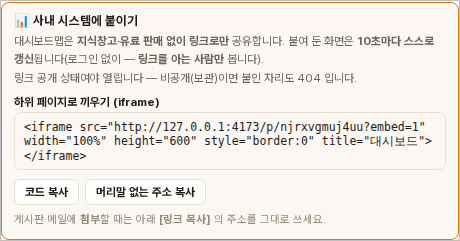
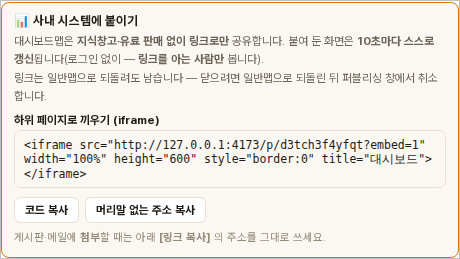
대시보드 퍼블리싱 창 단순화(보관·취소 단추 뺌) · 공개 화면 갱신 표시는 바닥글 줄 가운데 (e2e329) (#612)
* 대시보드 퍼블리싱 창 단순화(보관·취소 단추 뺌) · 공개 화면 갱신 표시는 바닥글 줄 가운데

- PublishPanel(대시보드맵): 처음은 [🔗 링크 만들기] 한 번 = 링크 공개. 등록 뒤
  비공개(보관)/링크 공개 전환과 [퍼블리싱 취소]를 그리지 않는다. 예전에 보관해 둔
  맵만 [🔗 링크 다시 열기]. 붙이기 칸 안내 문구도 갱신(닫으려면 일반맵으로 되돌린 뒤).
- PublicMapPage: 위쪽 34px 막대를 걷고, 같은 알약(🟢 📊 지금 시각 · ⟳ · 간격)을 뷰어
  바닥글 줄 가운데에 얹는다 — 새 탭·붙인 화면 모두, 맵 영역이 줄지 않는다.
- 22-dashboard v3.6 · 가이드 13 §7.

Claude-Session: https://claude.ai/code/session_01AoGXgGWrXHbWMncuBzWjkj

* docs: 가이드 13 그림 3장(붙이기 칸 · 포털 iframe · 새 탭) · 카탈로그 e2e329 (289차)

Claude-Session: https://claude.ai/code/session_01AoGXgGWrXHbWMncuBzWjkj

---------

Changed region(s): [[0.0304, 0.0581, 0.9739, 0.9585], [0.0, 0.9585, 1.0, 1.0], [0.0, 0.0, 1.0, 0.029]]

diff --git a/apps/frontend/src/pages/PublicMapPage.tsx b/apps/frontend/src/pages/PublicMapPage.tsx
@@ -75,8 +75,6 @@ function loadDashInterval(): number {
   } catch { return 10; }
 }
 const intervalLabel = (s: number) => (s === 0 ? '끔' : s < 60 ? `${s}초` : `${s / 60}분`);
-/** 위쪽 대시보드 막대 높이 — iframe 이 이만큼 내려간다 */
-const DASH_H = 34;
 
 /** `?embed=1` — 사내 페이지 안 iframe 으로 붙일 때. 돌아갈 막대를 그리지 않는다 */
 function isEmbed(): boolean {
@@ -206,12 +204,6 @@ export function PublicMapPage({ publishId }: { publishId: string }) {
     };
   }, [isDashboard, publishId, intervalSec]);
 
-  // 위쪽 대시보드 막대만큼 iframe 을 내린다 (ViewerBar 의 `--viewer-bar` 와 같은 방법)
-  useEffect(() => {
-    if (!isDashboard) return undefined;
-    document.documentElement.style.setProperty('--viewer-dash', `${DASH_H}px`);
-    return () => { document.documentElement.style.removeProperty('--viewer-dash'); };
-  }, [isDashboard]);
 
   // 뷰어 HTML 은 문서가 바뀔 때만 다시 만든다 — 큰 맵에서는 무거운 작업이다
   const html = useMemo(() => {
@@ -295,8 +287,8 @@ export function PublicMapPage({ publishId }: { publishId: string }) {
           position: 'fixed', left: 0, right: 0, bottom: 0,
           // 막대가 있을 때만 그만큼 내린다 — 없으면 예전 그대로 화면 전체다
           // 막대 + (유료면) 잠김 띠만큼 내려간다
-          top: 'calc(var(--viewer-bar, 0px) + var(--viewer-paid, 0px) + var(--viewer-dash, 0px))', width: '100%',
-          height: 'calc(100% - var(--viewer-bar, 0px) - var(--viewer-paid, 0px) - var(--viewer-dash, 0px))',
+          top: 'calc(var(--viewer-bar, 0px) + var(--viewer-paid, 0px))', width: '100%',
+          height: 'calc(100% - var(--viewer-bar, 0px) - var(--viewer-paid, 0px))',
           border: 'none',
         }}
       />
@@ -305,12 +297,17 @@ export function PublicMapPage({ publishId }: { publishId: string }) {
 }
 
 /**
- * 대시보드맵 공개 화면의 **위쪽 막대** (2026-10-01 사용자 요청: "링크로 열었을 때 시간이랑
- * 연결 상태가 좌측 하단에 표시되는데, 대시보드맵을 열었을 때와 똑같이 상단에 — 리프레시 시간
- * 간격 설정도 같이"). 에디터 도구줄의 대시보드 알약과 같은 순서·같은 기호다:
- * `🟢 HH:MM:SS  ⟳  [10초▾]` — 🟢 정상 · ⏳ 확인 중 · ⚠ 서버에 닿지 못함/확인이 멈춤.
- * 색은 뷰어 머리말(`#FFFDF8` / `#E4D9C3`)과 같아 바로 아래 머리말과 한 덩어리로 읽힌다.
- * 간격은 에디터와 같은 칸(`emm.dash.interval`)에 이 브라우저만 기억한다.
+ * 대시보드맵 공개 화면의 **갱신 표시** — 뷰어 **바닥글 줄 가운데**에 얹는다.
+ *
+ * (2026-10-01 사용자 요청) 처음엔 왼쪽 아래 배지였고, "대시보드맵을 열었을 때와 똑같이 상단에 —
+ * 간격 설정도 같이" 로 위쪽 막대가 됐다. (2026-10-02 사용자 요청) 새 탭에서 열면 위에 돌아가기
+ * 막대 · 대시보드 막대 · 뷰어 머리말 세 줄이 쌓여 "**하단의 줄에 중앙에**" 로 옮겼다 — 뷰어
+ * 바닥글(26px, `EasyMindMap 내보내기 · 읽기 전용 뷰어 …`)은 왼쪽만 쓰므로 가운데가 빈다.
+ * 줄을 새로 만들지 않아 맵 영역이 줄지 않는다.
+ *
+ * 내용은 에디터 도구줄의 대시보드 알약과 같은 순서·같은 기호다: `🟢 HH:MM:SS  ⟳  [10초▾]` —
+ * 🟢 정상 · ⏳ 확인 중 · ⚠ 서버에 닿지 못함/확인이 멈춤. 간격은 에디터와 같은 칸
+ * (`emm.dash.interval`)에 이 브라우저만 기억한다. 색은 바닥글과 같은 `#FFFDF8` / `#E4D9C3`.
  */
 function DashboardBar({
   now, refreshedAt, changedAt, stale, checking, intervalSec, onInterval, onRefresh,
@@ -322,50 +319,41 @@ function DashboardBar({
   const stalled = intervalSec > 0 && now.getTime() - refreshedAt.getTime() > intervalSec * 2000 + 5000;
   const warn = stale || stalled;
   const small: CSSProperties = {
-    height: 22, padding: '0 7px', borderRadius: 5, fontSize: 11, fontWeight: 700,
+    height: 18, padding: '0 6px', borderRadius: 4, fontSize: 10.5, fontWeight: 700,
     border: '1px solid #D8CBB2', background: '#fff', color: '#4A3F30',
-    cursor: 'pointer', fontFamily: 'inherit',
+    cursor: 'pointer', fontFamily: 'inherit', lineHeight: '16px',
   };
   return (
     <div
-      data-testid="public-dashboard-bar"
+      data-testid="public-dashboard-live"
+      title={(warn
+        ? '서버에 확인하지 못하고 있습니다 — 마지막으로 받은 값을 보여 주고 있습니다\n'
+        : intervalSec > 0
+          ? `대시보드맵 — ${intervalLabel(intervalSec)}마다 시계 눈금에 맞춰 바뀐 것을 확인해 스스로 갱신합니다\n`
+          : '자동 갱신이 꺼져 있습니다 — ⟳ 를 누를 때만 확인합니다\n')
+        + `보이는 시각 = 지금 시각 · 마지막 확인 ${hhmmss(refreshedAt)} · 마지막 변경 ${changedAt ? hhmmss(changedAt) : '—'}`}
       style={{
-        position: 'fixed', left: 0, right: 0, zIndex: 9,
-        top: 'calc(var(--viewer-bar, 0px) + var(--viewer-paid, 0px))', height: DASH_H,
-        boxSizing: 'border-box', display: 'flex', alignItems: 'center', gap: 8, padding: '0 12px',
-        background: '#FFFDF8', borderBottom: '1px solid #E4D9C3', color: '#6B5E4A',
-        fontFamily: 'system-ui, -apple-system, "Segoe UI", sans-serif', fontSize: 11.5,
+        // 뷰어 바닥글(높이 26px) 한가운데 — 바닥글 위에 얹는다
+        position: 'fixed', left: '50%', bottom: 2, transform: 'translateX(-50%)', zIndex: 11,
+        display: 'inline-flex', alignItems: 'center', gap: 5, height: 22, padding: '0 7px',
+        boxSizing: 'border-box', borderRadius: 6, whiteSpace: 'nowrap',
+        background: '#FFFDF8', border: '1px solid #E4D9C3', color: '#4A3F30',
+        fontFamily: 'system-ui, -apple-system, "Segoe UI", sans-serif', fontSize: 11, fontWeight: 600,
       }}
     >
-      <span style={{ fontWeight: 700 }}>📊 대시보드</span>
-      <span style={{ flex: 1 }} />
-      <span
-        data-testid="public-dashboard-live"
-        title={(warn
-          ? '서버에 확인하지 못하고 있습니다 — 마지막으로 받은 값을 보여 주고 있습니다\n'
-          : intervalSec > 0
-            ? `대시보드맵 — ${intervalLabel(intervalSec)}마다 시계 눈금에 맞춰 바뀐 것을 확인해 스스로 갱신합니다\n`
-            : '자동 갱신이 꺼져 있습니다 — ⟳ 를 누를 때만 확인합니다\n')
-          + `보이는 시각 = 지금 시각 · 마지막 확인 ${hhmmss(refreshedAt)} · 마지막 변경 ${changedAt ? hhmmss(changedAt) : '—'}`}
-        style={{
-          display: 'inline-flex', alignItems: 'center', gap: 6, height: 26, padding: '0 8px',
-          borderRadius: 7, fontWeight: 600, whiteSpace: 'nowrap',
-          background: '#F7F1E6', border: '1px solid #E4D9C3', color: '#4A3F30',
-        }}
+      <span data-testid="public-dashboard-health" aria-hidden>{warn ? '⚠' : checking ? '⏳' : '🟢'}</span>
+      <span aria-hidden>📊</span>
+      <span data-testid="public-dashboard-clock" style={{ fontVariantNumeric: 'tabular-nums' }}>{hhmmss(now)}</span>
+      <button data-testid="public-dashboard-refresh" style={small} title="지금 다시 받기" onClick={onRefresh}>⟳</button>
+      <select
+        data-testid="public-dashboard-interval"
+        value={intervalSec}
+        onChange={(e) => onInterval(Number(e.target.value))}
+        title="자동 갱신 간격 (이 브라우저에만 기억)"
+        style={{ ...small, padding: '0 1px' }}
       >
-        <span data-testid="public-dashboard-health" aria-hidden>{warn ? '⚠' : checking ? '⏳' : '🟢'}</span>
-        <span data-testid="public-dashboard-clock" style={{ fontVariantNumeric: 'tabular-nums' }}>{hhmmss(now)}</span>
-        <button data-testid="public-dashboard-refresh" style={small} title="지금 다시 받기" onClick={onRefresh}>⟳</button>
-        <select
-          data-testid="public-dashboard-interval"
-          value={intervalSec}
-          onChange={(e) => onInterval(Number(e.target.value))}
-          title="자동 갱신 간격 (이 브라우저에만 기억)"
-          style={{ ...small, padding: '0 2px' }}
-        >
-          {DASH_INTERVALS.map((v) => <option key={v} value={v}>{intervalLabel(v)}</option>)}
-        </select>
-      </span>
+        {DASH_INTERVALS.map((v) => <option key={v} value={v}>{intervalLabel(v)}</option>)}
+      </select>
     </div>
   );
 }

diff --git a/apps/frontend/src/components/cloud/PublishPanel.tsx b/apps/frontend/src/components/cloud/PublishPanel.tsx
@@ -426,7 +426,24 @@ export function PublishPanel(
           </div>
         )}
 
-        {status?.available && status.publishable !== false && !status.publishId && (
+        {/* ★ **대시보드맵은 한 단계로 링크를 만든다** (2026-10-02 사용자 요청: 비공개/링크 공개 단추가
+            필요 없다) — 보관 상태를 거치지 않고 바로 링크 공개. 지식창고·판매는 서버가 막는다 */}
+        {status?.available && status.publishable !== false && !status.publishId && status.dashboard && (
+          <>
+            <div style={{ fontSize: 12.5, color: t.textMuted, lineHeight: 1.8, marginBottom: 16 }}>
+              대시보드맵을 <b>사내 시스템에 붙일 링크</b>를 만듭니다 — 링크를 아는 사람만 봅니다
+              (지식창고에는 올라가지 않습니다). 붙여 둔 화면은 스스로 갱신됩니다.
+            </div>
+            <button
+              data-testid="publish-create"
+              disabled={busy}
+              onClick={() => void doPublish('public')}
+              style={{ ...btn, width: '100%', background: t.primary, color: '#fff' }}
+            >{busy ? '만드는 중…' : '🔗 링크 만들기'}</button>
+          </>
+        )}
+
+        {status?.available && status.publishable !== false && !status.publishId && !status.dashboard && (
           <>
             <div style={{ fontSize: 12.5, color: t.textMuted, lineHeight: 1.8, marginBottom: 16 }}>
               퍼블리싱하면 이 맵이 문서함의 <b>퍼블리싱 자리</b>로 옮겨집니다 —
@@ -463,7 +480,29 @@ export function PublishPanel(
                 등록(주소를 만든다)과 노출(남에게 보인다)을 나눈 자리다.
                 칸이 없는 서버(델타 미적용)에서는 아예 그리지 않는다 —
                 눌러 보고 나서야 실패를 만나지 않게. */}
-            {status.canSetVisibility && (
+            {/* ★ 대시보드맵은 상태 전환 단추를 두지 않는다 (2026-10-02 사용자 요청) — 링크 공개가
+                대시보드의 쓰임새 전부다. 예전에 보관으로 돌려 둔 맵만 [링크 다시 열기] 하나를 보인다
+                (그것마저 없으면 붙여 둔 자리를 되살릴 길이 없다) */}
+            {status.dashboard && (status.visibility ?? 'public') === 'private' && (
+              <div data-testid="publish-dashboard-reopen" style={{ marginBottom: 10 }}>
+                <button
+                  data-testid="publish-vis-public"
+                  disabled={busy}
+                  onClick={() => void doSetVisibility('public')}
+                  style={{ ...btn, width: '100%', height: 32, fontSize: 12.5, background: t.primary, color: '#fff' }}
+                >🔗 링크 다시 열기</button>
+                <div style={{ fontSize: 11.5, color: t.textSubtle, lineHeight: 1.6, marginTop: 6 }}>
+                  지금은 보관 중이라 남에게 보이지 않습니다(주소를 열면 404). 다시 열면 <b>같은 주소</b>가 살아납니다.
+                </div>
+              </div>
+            )}
+            {status.dashboard && (status.visibility ?? 'public') !== 'private' && (
+              <div style={{ fontSize: 11.5, color: t.textSubtle, lineHeight: 1.6, marginBottom: 10 }}>
+                🔗 링크 공개 중 — 링크를 가진 누구나 읽습니다. 값은 프로그램이 넣은 대로 스스로 바뀝니다.
+                <br />★ <b>목록에는 뜨지 않습니다</b> — 주소를 아는 사람만 봅니다.
+              </div>
+            )}
+            {status.canSetVisibility && !status.dashboard && (
               <div data-testid="publish-visibility" style={{ marginBottom: 10 }}>
                 <div style={{ display: 'flex', gap: 6 }}>
                   {([
@@ -490,15 +529,11 @@ export function PublishPanel(
                   })}
                 </div>
                 <div style={{ fontSize: 11.5, color: t.textSubtle, lineHeight: 1.6, marginTop: 6 }}>
-                  {status.dashboard
-                    ? ((status.visibility ?? 'public') === 'private'
-                      ? '지금은 남에게 보이지 않습니다 (주소를 열면 404). 붙여 둔 자리에서 보이게 하려면 [링크 공개] 로 바꾸세요.'
-                      : '링크를 가진 누구나 읽습니다 — 값은 프로그램이 넣은 대로 10초 안에 바뀝니다.')
-                    : (status.visibility ?? 'public') === 'private'
-                      ? '지금은 남에게 보이지 않습니다 (주소를 열면 404). 이 상태에서는 맵을 고칠 수 있습니다.'
-                      : '링크를 가진 누구나 읽습니다. 고치려면 [비공개(보관)]로 바꾸세요 — 주소는 그대로입니다.'}
+                  {(status.visibility ?? 'public') === 'private'
+                    ? '지금은 남에게 보이지 않습니다 (주소를 열면 404). 이 상태에서는 맵을 고칠 수 있습니다.'
+                    : '링크를 가진 누구나 읽습니다. 고치려면 [비공개(보관)]로 바꾸세요 — 주소는 그대로입니다.'}
                   <br />★ <b>목록에는 뜨지 않습니다</b> — 주소를 아는 사람만 봅니다.
-                  {!status.dashboard && <> 둘러보는 사람에게도 보이게 하려면 아래 <b>[지식창고]</b> 를 켜세요.</>}
+                  {' '}둘러보는 사람에게도 보이게 하려면 아래 <b>[지식창고]</b> 를 켜세요.
                 </div>
               </div>
             )}
@@ -684,7 +719,8 @@ export function PublishPanel(
                 사용자 결정). 취소는 주소를 영구히 죽이는 일이고 되돌릴 수
                 없다. 서버도 같은 판정을 하지만(409), 화면이 **누르기 전에**
                 말해 준다 — 눌러 보고 나서야 거절당하지 않게. */}
-            {(() => {
+            {/* 대시보드맵은 [퍼블리싱 취소] 를 두지 않는다 (2026-10-02 사용자 요청) */}
+            {!status.dashboard && (() => {
               const locked = !!status.canSetVisibility
                 && (status.visibility ?? 'public') !== 'private';
               return (
@@ -894,7 +930,7 @@ function DashboardEmbed({ t, url, flash }: { t: ThemeTokens; url: string; flash:
       <div style={{ fontSize: 11.5, color: t.textMuted, lineHeight: 1.6, marginBottom: 8 }}>
         대시보드맵은 <b>지식창고·유료 판매 없이 링크로만</b> 공유합니다. 붙여 둔 화면은
         <b> 10초마다 스스로 갱신</b>됩니다(로그인 없이 — <b>링크를 아는 사람만</b> 봅니다).
-        <br />링크 공개 상태여야 열립니다 — 비공개(보관)이면 붙인 자리도 404 입니다.
+        <br />링크는 일반맵으로 되돌려도 남습니다 — 닫으려면 일반맵으로 되돌린 뒤 퍼블리싱 창에서 취소합니다.
       </div>
       <div style={{ fontSize: 11.5, fontWeight: 700, margin: '6px 0 3px' }}>하위 페이지로 끼우기 (iframe)</div>
       <textarea data-testid="publish-embed-code" readOnly rows={3} value={code} style={box}

diff --git a/docs/05-implementation/test-catalog.md b/docs/05-implementation/test-catalog.md
@@ -129,6 +129,7 @@
 | e2e269 | **여러 중심주제 3단계 — 아웃라인·검색·칸반·HTML 뷰어·MCP 의 둘째 중심 + `#` 없는 문서의 최상위 항목 → 중심(A-1 ②)** (2026-09-16, #490·#493 후속) | 구성: `packages/emm-parser` `test/centers.test.ts` 31→**48항목**(`##`만 있는 문서 → 첫 `##` 이 첫 중심·맵 이름은 파일 이름·`###` 은 가지·`####` 은 자식·둘째 `##` 은 새 중심·mdForm 없음·왕복 보존 / 목록만 있는 문서 항목마다 중심·들여쓴 항목은 가지 / 순번 절 중심·문단은 머리말 노트 / 항목 뒤 `#` 는 새 중심 / 머리말은 첫 중심 노트) + 적합성 코퍼스 **15/15**(신규 `headingless-centers.md` 중심 3개, `numbered-sections.md` 스냅숏 갱신 19→18: 'Prompt:'·'Response:' 두 중심). 프런트: tsc 오류 전후 비교 **새 오류 0**; 뷰어 인라인 스크립트를 떼어 `node --check` 구문 검사 통과. API: `append-to-map`·`check-items`·`emm-to-doc`·`doc-to-emm` 을 global tsc 로 단독 타입 검사 통과, `sync:emm`. **브라우저 확인(할 일)**: ① 중심이 둘인 맵에서 [아웃라인] — 최상위 행이 둘, 둘째 행에서 ＋자식 → 그 중심의 가지 ② 좌측 [검색] 에 둘째 중심 가지 이름 → 결과에 뜨고 클릭하면 이동 ③ [칸반] — 둘째 중심의 가지도 컬럼 ④ [내보내기 ▸ HTML] 열기 — 중심 둘이 에디터 자리 그대로, 노드 수가 전체, [모두 접기] 뒤에도 둘째 중심이 오른쪽에 ⑤ MCP `append_to_map(parent:"중심주제2")` → 그 중심의 가지, `check_items(nodes:["중심주제2 > 가지"])` ⑥ [불러오기] 에 `## A / ## B` 만 있는 MD → 중심 A·B, [묶기] 로 하나로. | 08-layout §23.2 · emm-spec §3.1 |
 | e2e268 | **여러 중심주제 2단계 — 편집: 중심 추가·끌어 옮기기·삭제·묶기·올리기, 둘째 중심 안의 노드 편집** (2026-09-15, 1단계 #490 후속. 선언 블록 위치·머리말·묶기/올리기의 **세부**는 mmd 표준 세션에서 정하는 중 — 이 PR 의 묶기/올리기는 `mindmap-markdown-alignment.md` A-1 의 문구("하나의 중심주제로 묶기"·"첫 번째 가지를 중심으로 올리기")를 앱 트리 편집으로 구현한 것이고, 표준이 정해지면 세부를 맞춘다) | 구성: `apps/frontend` `src/stores/centers.test.ts` **81항목** — 읽기 헬퍼 11(찾기·깊이·부모·색인·경로·중심 판정·최상위 선택) · 둘째 중심 안의 추가/형제/상위/삭제/일괄/appendChildren 11 · 중심 건너 옮기기 15(child·before·center root·moveNode·다중) · 중심 추가/자리 저장(반올림)/자리 지움/첫 중심 자리 거부/중심 삭제/되돌리기/일괄 삭제 9 · 묶기(첫 중심으로·둘째 중심으로 — 옛 첫 중심은 새 id 가지)·올리기(id 유지·손자·중심 루트 거부·둘째 중심 가지)·되돌리기 20 · 접기/모두 접기·펼치기/좌우/레벨 레이아웃/루트 레이아웃 8 · Codex 지적 3건(레벨 레이아웃 폴백은 그 중심의 가지에서 · 묶기 후 전역 레이아웃 동기화·되돌리기 · 레이아웃 탭 중심 스코프) 7. 기존 `moveNodesRelative.test.ts` 18 · `subtreeCollapse.test.ts` 7 회귀 PASS. 이 세션은 npm 레지스트리 403 이라 global tsc 로 CommonJS 컴파일 + zustand 스텁으로 돌렸다(CI 는 tsx). **브라우저 확인(할 일)**: ① 우상단 툴바 [중심 ▸ ◎] → 오른쪽 빈 자리에 "중심 주제" 가 생기고 선택된다 ② 그 루트를 끌면 드롭존 없이 따라오고 놓은 자리에 남는다(새로고침 후에도) ③ 그 루트의 + 로 가지를 붙이고 첫 중심의 노드를 그 가지 위로 끌어 옮긴다 ④ 1레벨 가지를 고르고 [↑] → 새 중심이 되고 하위가 가지가 된다 ⑤ 중심 루트를 고르고 [⇢] → 중심 하나로 묶인다, Ctrl+Z 로 돌아온다 ⑥ 둘째 중심 루트 + Del → 그 중심째 사라진다. | 08-layout §23.1 · 10-canvas §21.2 |
 | e2e328 | **새 중심주제 배치 모드 — 클릭한 자리에 중심 추가** (2026-10-02 사용자 보고: "중심노드를 추가시 내가 원하는 위치에 추가할 수가 없다" — 전에는 누르는 즉시 맨 오른쪽 자동 배치) | 구성: 프런트 단위(`centers.test.ts` 보강, `test:unit`) **+3항목** — ①`addCenter(text, {dx:120.6, dy:-40.4})` → 맨 뒤 + `pos {121,-40}`(반올림) ②자리 없이 만든 중심은 `pos` 없음(자동 배치 유지) ③자리 중심 삭제. UI: 툴바 `center-add` 가 `viewportStore.placingCenter` 토글(highlight) → Canvas 십자 커서 + `center-place-badge` → 빈 캔버스 클릭 = `addCenter(undefined, {dx: w.x-CX, dy: w.y-CY})` + 선택, 노드 클릭·Esc·재클릭 = 취소. **레이아웃 단위(`centerPos.test.ts`) 8항목** — ①방사형·tree-right·tree-down·hierarchy-right·process-tree-right 다섯 레이아웃에서 `pos {250,-120}` → 둘째 루트 가운데 = (CX+250, CY-120) ②맵은 방사형·둘째 중심만 트리여도 자리 정확 ③pos 없으면 자동 배치(첫 중심 오른쪽·CY 높이). Codex P1: 트리 계열은 루트를 원점에서 옮겨 놓아 전에는 클릭·드롭 지점과 어긋났다 → `computeLayout` 이 루트 위치를 빼 준다. **사용자 실측(10-02, pro-dev)** — 새로고침 뒤 ◎ → 빈 자리 클릭 → "원하는 자리에 잘 생긴다". **한계(정직하게)** — 자동 브라우저 e2e 는 이 컨테이너에 프런트 의존성(npm 403)이 없어 못 돌렸다. CI 의 type-check·build·`test:unit` 이 검사한다 | 08-layout.md §23.1 · 10-canvas.md §21.2 · user-guide 03 「중심 노드를 원하는 자리에」 |
+| e2e329 | **대시보드 퍼블리싱 창 단순화 · 공개 화면 갱신 표시는 바닥글 줄 가운데** (2026-10-02 사용자 요청: "대시보드맵 퍼블리싱 팝업에서 비공개(보관)·링크 공개 버튼 필요 없다 · 하단의 퍼블리싱 취소도 필요 없다 · 새 탭에서 열기 했을 때 시간 표시줄을 하단의 줄 가운데에" — #612, 22-dashboard.md v3.6) | **코어**: `PublishPanel`(대시보드맵) — 처음은 [🔗 링크 만들기] 한 번 = 링크 공개, 등록 뒤 보관/공개 전환·[퍼블리싱 취소] 없음, 예전에 보관해 둔 맵만 [🔗 링크 다시 열기]. `PublicMapPage` — #606 의 위쪽 34px 막대를 걷고 같은 알약(🟢 📊 지금 시각 · ⟳ · 간격)을 뷰어 바닥글(26px) 가운데에 얹음(붙인 화면·새 탭 같음, 맵 영역이 줄지 않음). **검증은 유료 저장소 PR 검사**: [링크 만들기] 한 번 → publish-status visibility=public · `publish-visibility`·`publish-vis-private`·`publish-stop` 0개 · 포털 iframe 안 알약 바닥 6px 안·가로 가운데 ±3px · 위쪽 막대 0개 · 새 탭(1280×760)에서도 바닥 줄 가운데 · 기존 갱신·간격·⟳ 항목 그대로 — **UI 53 PASS** · HTTP 110 PASS. 가이드 그림 3장(붙이기 칸 · 포털 iframe · 새 탭) | 22-dashboard §4.7 · 가이드 13 §7 |
 | e2e267 | **홈페이지 기능·AI 메뉴 — `/function` · `/ai`** (2026-09-15 사용자 요청: "문구에 AI 를 포함 · 특장점은 6개로 하되 확장성 있게 · 기능(`/function`) 추가", 이어서 "AI 연동은 별도 메뉴로 빼자 — 기능에서는 AI 기능만, `/ai` 에서는 사상·C,D 차이") | 구성: **진짜 nginx**(배포 `nginx.conf` 그대로, SPA 폴백 포함) + **빌드본 dist** + **진짜 크로미움**. **43항목**. **A. 다섯 화면 공통 25** (`/`·`/function`·`/ai`·`/emm`·`/library`) 메뉴 **5개**(홈·기능·AI 연동·mmd 표준·지식창고) · 현재 메뉴 강조(`aria-current`)가 그 페이지 · `h1` 존재 · **콘솔 오류 0** · ★**390px 에서 가로 스크롤 0**(비교표는 `.tablewrap` 안에서만 구른다). **B. `/function` 5** 묶음 **6개** · 항목 **30개** · AI 묶음의 [자세히 보기] 가 `/ai` · **가이드 출처 6줄** · ★**`/function` 본문에 `OAuth`·`PAT`·`emm_` 가 없다**(붙이는 법은 `/ai` 몫이라는 사용자 결정을 글자로 고정한 것) . **C. `/ai` 11** 표 2개(도구 **6행** · 비교 **6행**) · 설명 카드 6장(사상 4 + 앱 안의 AI 2) · 본문에 *맵은 대화의 부산물이 아니라 결과물* · *되돌릴 수 없는 것은 AI 에게 주지 않는다* · *고른다* · *클라이언트* · *무기한* · *폐기* · `create_map` · `check_items`. **D. 길잡이 3** 메뉴 클릭으로 `/function` 이동(새로고침 없이) · [AI 연동 자세히 보기] 클릭으로 `/ai` · 이동 뒤 메뉴 강조도 따라온다. **되돌려 깨지는 것 확인** — `App.tsx` 의 `'/ai'` 줄만 빼고 다시 빌드하면 **10 FAIL**(`/ai` 가 홈으로 떨어진다), 되돌리면 43/43 PASS. **★ 내용은 지어내지 않았다** — `/function` 은 사용자 가이드에 장이 있는 기능만 적고 묶음마다 **어느 장에서 왔는지**를 화면에 적는다. `/ai` 의 도구 6개는 `apps/api/src/mcp/mcp-tools.ts` 의 배열, 사상은 `mcp-connector.md` §2-1·§2-3, C·D 비교표는 §9.2.1 을 옮긴 것이다(그 절에 역참조를 달았다 — 원본은 문서다). **확장성** — 카드 내용은 `src/content/{features,functions}.ts` 에 데이터로 있고 화면은 개수를 세지 않는다(3→2→1열). 항목을 더할 때 손대는 곳은 배열 하나다 | apps/site · 27a-paid-publish.md §0.4 ⑵ · mcp-connector.md §2-1·§2-3·§9.2.1 · e2e264 |
 | e2e288 | **Pan 모드에서 노드가 딸려 오던 것 + [모두 펼치기·접기]의 범위를 선택에 맞춘다** (2026-09-21 사용자 요청 둘) | 구성: 진짜 vite + 크로미움 + **진짜 에디터**. 접힘은 화면에 몇 개 그려졌나가 아니라 **문서의 `collapsed`** 로 가리고, 선택은 스토어로 직접 세운다. **① Pan** — 배지 문구 · 노드를 끌어도 **중심 기준 좌표가 그대로**(473,−244 → 473,−244)이고 화면만 끌린다(722 → 942) · 모드를 끄면 노드 드래그가 화면을 끌지 않는다. **② 범위** — 선택 없음: 전체 접기/펼치기 · **보통 노드**: 그 아래만 (★ 같은 날 오후 e2e289 에서 **고른 노드 자신까지 접는 쪽**으로 뒤집혔다 — 이 행의 기대값도 그때 함께 고쳤다) · 다른 가지는 건드리지 않는다 · ★**중심 선택은 선택 없음과 같다**(셈으로도 같다 — 중심의 하위 = 맵 전체). **17항목 PASS** · 단위 `expandScope.test.ts` **13항목**(중심이 섞인 다중 선택 포함) · 되돌려 깨짐 확인(Pan 모드에서 노드가 473 → 719 로 끌려간다). ★ **함정** — 맵을 열면 **노드 하나가 이미 선택돼 있다**(실측 `sel=b1-2`). "선택 없음" 을 클릭만으로 만들려다 시험이 헛돌았다 — 스토어로 `select(null)` 해야 한다. ★ **뒤집은 결정** — 2026-07 에는 "Pan 모드여도 노드는 움직인다" 였다(모드 표시가 없어 고장난 줄 알았기 때문). 지금은 배지·테두리·커서가 모드를 말하므로 **모드가 한 가지 일만 한다**. ⊞/⊟ 전용 단추는 ＋/− 와 같은 일이 되어 **없앴다**(§5-1-6) | 10-canvas §6.5 · §21.2-A |
 | e2e293 | **문서함 [↻ 새로고침] — 폴더·내 맵·공유받은 맵을 다시 읽는다** (2026-09-21 사용자 요청: "공유받은 문서 목록을 갱신하려고 Ctrl+F5 를 누른다 — 내 문서함 뒤에 새로고침 버튼") | 구성: 인증 모드 vite + 진짜 크로미움(`scripts/doc-shots/guide01-browser-refresh.mjs`), API 는 route 스텁(phase 0: A맵 · phase 1: A·B맵 + 공유 S맵, 두 번째 `/maps` 는 700ms 지연). ① 버튼이 "내 문서" 바로 오른쪽, 첫 목록에 A맵만 ② 서버 상태를 바꾼 뒤 클릭 → 읽는 동안 `↻ 읽는 중…` + 비활성, 끝나면 **`/folders`·`/maps`·`/maps/shared` 각 +1**, 새로 저장된 B맵과 **공유받은 S맵**이 목록에, 버튼 다시 활성 ③ 두 번째 클릭도 +1/+1/+1. **9항목 PASS**(2회 연속). 알아 둘 것: 문서함을 열면 첫 목록을 두 번 읽는다(mount 효과 + lastSavedAt 효과 — 예전부터 그랬다, 이번 범위 아님) | document-library §5 |
@@ -489,6 +490,9 @@
 > 겹쳐 보이지만 날짜와 함께 읽으면 유일하다. **고치지 말 것** — 그때의
 > 기록을 지금 규칙으로 고쳐 쓰면 없던 역사를 만드는 셈이다.
 
+- 2026-10-02 (289차): **e2e329 — 대시보드 퍼블리싱 창 단순화 · 갱신 표시 바닥글 가운데**(사용자 요청, #612).
+  대시보드맵은 [🔗 링크 만들기] 한 번으로 끝, 보관·공개 전환과 취소 단추를 뺐다. 링크로 연 화면의
+  `🟢 📊 시각 ⟳ 간격` 은 위쪽 막대 대신 맨 아래 줄 가운데. 유료 PR 검사 UI 53 · HTTP 110 PASS.
 - 2026-10-02 (288차): **e2e328 — 새 중심주제 배치 모드**. 툴바 [새 중심주제] 가
   배치 모드를 켜고(십자 커서·배지) 빈 캔버스를 클릭한 자리에 중심을 만든다
   (`addCenter` 에 `pos` 인자). 전에는 맨 오른쪽 자동 배치뿐. 단위 +3. 문서:

diff --git a/docs/04-extensions/dashboard/22-dashboard.md b/docs/04-extensions/dashboard/22-dashboard.md
@@ -1,6 +1,6 @@
 # 22. 대시보드맵 (DASHBOARD) — v3 설계안
 
-* 문서 버전: **v3.5 — 공개 화면 위쪽 갱신 막대 · 문서함 대시보드 구역 · 노드를 내용째 추가** (2026-10-01 — v3.1: 형제 노드 앞·뒤 추가 · v3.2: 구현하며 정한 것 반영, 부록 C · v3.3: 링크 퍼블리싱 허용 §4.7 · v3.4: 문서함 `📊 대시보드` 구역 §4.2, `add` 에 노트·하위·변수 값 §7 · v3.5: 연결 주소 줄을 빼고 공개 화면 갱신 표시를 위쪽 막대로 §4.2 · §4.7)
+* 문서 버전: **v3.6 — 대시보드 퍼블리싱 창 단순화 · 공개 화면 갱신 표시는 바닥글 가운데 · 문서함 대시보드 구역 · 노드를 내용째 추가** (2026-10-01 — v3.1: 형제 노드 앞·뒤 추가 · v3.2: 구현하며 정한 것 반영, 부록 C · v3.3: 링크 퍼블리싱 허용 §4.7 · v3.4: 문서함 `📊 대시보드` 구역 §4.2, `add` 에 노트·하위·변수 값 §7 · v3.5: 연결 주소 줄을 빼고 공개 화면 갱신 표시를 위쪽 막대로 §4.2 · §4.7 · v3.6: 퍼블리싱 창에서 보관·취소 단추를 빼고, 갱신 표시를 바닥글 줄 가운데로 §4.7)
 * 이력: v1.0 (2026-04-16, `nodes` 표 전제 — 폐기) → v2.0 (2026-09-29, 값을 노드 **밖** 칩으로 —
   사용자 정정으로 폐기) → **v3.0 (노드 내용 자체를 바꾼다)**. 부록 B.
 * 상태: **승인됨**(2026-09-30 "이대로 진행"). 1단계 구현 — 코어 okpojung/easymindmap#594 (규칙·자리),
@@ -302,10 +302,12 @@
 **값은 담지 않는다**(비인증 경로). 달라졌을 때만 문서를 다시 받는다. 탭이 숨으면 멈춘다.
 비공개·취소로 404 가 오면 "링크가 닫혔습니다" 로 바꾼다 — 옛 숫자를 계속 띄우지 않는다.
 다시 그리면 뷰어의 확대·위치가 처음으로 돌아간다(한눈에 보는 화면이라 받아들인다).
-**위쪽 막대** (v3.5, 2026-10-01 사용자 요청: *"시간이랑 연결 상태가 좌측 하단에 표시되는데, 대시보드맵을
-열었을 때와 똑같이 상단에 — 리프레시 시간 간격 설정도 같이"*) — 뷰어 머리말 바로 위에 34px 막대
-(`public-dashboard-bar`, 머리말과 같은 `#FFFDF8`/`#E4D9C3`)를 두고 iframe 을 그만큼 내린다(`--viewer-dash`).
-오른쪽에 에디터 도구줄과 같은 알약: `🟢 14:32:05  ⟳  [10초▾]`.
+**갱신 표시 — 바닥글 줄 가운데** (v3.6, 2026-10-02). 자리가 두 번 옮겨졌다:
+왼쪽 아래 배지 → (v3.5, *"대시보드맵을 열었을 때와 똑같이 상단에 — 리프레시 간격 설정도 같이"*) 머리말 위 34px 막대 →
+(v3.6, *"새 탭에서 열기 했을 때 시간 표시줄이 하단의 줄에 중앙에"*) 뷰어 **바닥글(26px) 가운데**에 얹은 알약
+(`public-dashboard-live`). 새 탭에서는 위에 돌아가기 막대·대시보드 막대·뷰어 머리말 세 줄이 쌓였다 — 바닥글은
+왼쪽 글만 있어 가운데가 비고, 줄을 새로 만들지 않아 맵 영역이 줄지 않는다. 붙인 화면(`?embed=1`)도 같다.
+알약은 에디터 도구줄과 같은 순서·기호: `🟢 📊 14:32:05  ⟳  [10초▾]`.
 - 시각은 **지금 시각**(매초). 🟢 정상 · ⏳ 확인 중 · ⚠ 서버에 닿지 못함 또는 확인이 멈춤(간격의 2배 + 5초).
 - ⟳ — 표식과 상관없이 지금 다시 받는다. 간격 — 끔·10초·30초·1분·5분, 에디터와 **같은 칸**
   (`localStorage emm.dash.interval`)에 이 브라우저만 기억. 끔이면 스스로 묻지 않는다.
@@ -313,7 +315,17 @@
 
 **보안** — 링크는 12자 무작위(31¹² ≈ 7.8×10¹⁷)라 찍어 맞힐 수 없지만, **링크를 받은 사람은 누구나
 본다**(로그인 없음). 사내 전용이 꼭 필요하면 사내망 프록시 뒤에 두거나, 2단계의 "허용 도메인·서명 링크"
-를 쓴다(§11). 노출이 걱정되면 [🔒 비공개(보관)] 한 번으로 즉시 닫힌다(주소는 그대로).
+를 쓴다(§11).
+
+**퍼블리싱 창 — 대시보드맵은 단추를 줄인다** (v3.6, 2026-10-02 사용자 요청: *"상단의 비공개(보관)·링크 공개
+버튼 필요 없다 · 하단의 퍼블리싱 취소도 필요 없다"*).
+- 처음은 **[🔗 링크 만들기]** 한 번 = 링크 공개(보관을 거치지 않는다).
+- 등록된 뒤에는 `🔒 비공개(보관) / 🔗 링크 공개` 전환과 **[퍼블리싱 취소]** 를 그리지 않는다 — 남는 것은
+  `📊 사내 시스템에 붙이기`(iframe 코드·머리말 없는 주소) · 미리보기 · 링크 복사 · 새 탭에서 열기.
+- 예전에 보관으로 돌려 둔 대시보드만 **[🔗 링크 다시 열기]** 하나를 보인다 — 그것마저 없으면 붙여 둔 자리를
+  되살릴 길이 없다.
+- **링크를 닫는 길**: 일반맵으로 되돌리면 보통 퍼블리싱 창이 되고 거기서 보관·취소가 된다(되돌려도 링크는 남는다).
+  서버 규칙(보관·취소 API)은 그대로 — 화면에서 단추만 뺐다.
 
 ## 5. 규칙
 

diff --git a/docs/user-guide/13-대시보드맵.md b/docs/user-guide/13-대시보드맵.md
@@ -310,7 +310,8 @@ ON CONFLICT (map_id, name) DO UPDATE SET value = EXCLUDED.value;
 
 1. 문서함의 **📊 대시보드** 구역에서 그 맵 줄의 **🌐 퍼블리싱**을 누릅니다(맵을 열지 않아도 됩니다).
    맵을 열어 둔 채라면 도구줄의 🌐 도 같습니다.
-2. **[퍼블리싱 — 비공개로 등록]** → **[🔗 링크 공개]** 를 누릅니다.
+2. **[🔗 링크 만들기]** 를 누릅니다 — 바로 링크 공개가 됩니다. 대시보드맵의 퍼블리싱 창에는
+   비공개(보관)·링크 공개 전환과 [퍼블리싱 취소] 단추가 없습니다(필요 없는 단계라 뺐습니다).
 3. 창에 **📊 사내 시스템에 붙이기** 칸이 나옵니다.
    - **첨부**: 아래 **[링크 복사]** 의 주소(`https://…/p/abcd…`)를 붙여 넣습니다.
    - **하위 페이지**: **[코드 복사]** 로 받은 `<iframe …?embed=1 …>` 를 사내 페이지 HTML 에 넣습니다.
@@ -318,9 +319,12 @@ ON CONFLICT (map_id, name) DO UPDATE SET value = EXCLUDED.value;
 
 <img src="assets/13-dashboard-embed-code.png" width="440" alt="퍼블리싱 창의 📊 사내 시스템에 붙이기 칸 — iframe 코드 상자와 [코드 복사] [머리말 없는 주소 복사]">
 
-<img src="assets/13-dashboard-embed.png" width="720" alt="사내 포털 페이지 안에 iframe 으로 끼운 대시보드맵 — 맨 위 📊 대시보드 막대(🟢 지금 시각 · ⟳ · 10초) 아래에 값이 채워진 노드">
+<img src="assets/13-dashboard-embed.png" width="720" alt="사내 포털 페이지 안에 iframe 으로 끼운 대시보드맵 — 값이 채워진 노드, 맨 아래 바닥글 줄 가운데에 🟢 📊 지금 시각 · ⟳ · 10초">
 
-- 붙인 화면 **맨 위 막대**에 대시보드맵을 열었을 때와 같은 표시가 있습니다: `🟢 14:32:27  ⟳  [10초▾]`.
+<img src="assets/13-dashboard-newtab.png" width="720" alt="퍼블리싱 창의 [새 탭에서 열기]로 연 대시보드 — 맨 아래 줄 가운데에 🟢 📊 지금 시각 · ⟳ · 10초">
+
+- 붙인 화면(그리고 **새 탭에서 열기** 한 화면)의 **맨 아래 줄 가운데**에 대시보드맵을 열었을 때와 같은 표시가
+  있습니다: `🟢 📊 14:32:27  ⟳  [10초▾]`.
   - 시각은 **지금 시각**(매초)입니다. 🟢 정상 · ⏳ 확인 중 · ⚠ 서버에 닿지 못하거나 확인이 멈춤 —
     ⚠ 일 때는 마지막으로 받은 값을 그대로 보여 줍니다.
   - **⟳** 는 지금 바로 다시 받습니다. **[10초▾]** 로 간격을 고릅니다(끔·10초·30초·1분·5분) — 이
@@ -338,12 +342,12 @@ ON CONFLICT (map_id, name) DO UPDATE SET value = EXCLUDED.value;
 | 💰 유료로 팔기 | 프로그램이 바꾸는 숫자는 파는 물건이 아닙니다 |
 
 > ★ **링크를 받은 사람은 누구나 봅니다**(로그인 없음). 주소는 12자 무작위라 찍어서 맞힐 수는
-> 없지만, 외부로 퍼진 것 같으면 퍼블리싱 창에서 **[🔒 비공개(보관)]** 를 누르세요 — 붙여 둔
-> 자리도 10초 안에 "링크가 닫혔습니다" 로 바뀝니다(주소는 그대로라 다시 [🔗 링크 공개] 하면
-> 그 자리가 되살아납니다).
+> 없지만, 외부로 퍼진 것 같으면 링크를 닫으세요 — 맵을 **일반맵으로 되돌리면**(8장) 보통 퍼블리싱
+> 창이 되고, 거기서 **[🔒 비공개(보관)]** 를 누르면 붙여 둔 자리도 10초 안에 "링크가 닫혔습니다" 로
+> 바뀝니다(주소를 아예 없애려면 이어서 [퍼블리싱 취소]).
 >
-> "비공개(보관)" 는 **남에게 404** 입니다 — 붙여 둔 자리에서도 안 열립니다. 사내 첨부용은
-> **🔗 링크 공개**(지식창고 미진열)가 맞는 상태입니다.
+> 예전에 보관으로 돌려 둔 대시보드맵은 퍼블리싱 창에 **[🔗 링크 다시 열기]** 가 보입니다 — 같은 주소가
+> 다시 열립니다.
 
 ---
 
@@ -371,5 +375,5 @@ ON CONFLICT (map_id, name) DO UPDATE SET value = EXCLUDED.value;
 **링크로는 됩니다**(7장 — 사내 시스템에 첨부·하위 페이지). 지식창고 진열과 유료 판매는 안 됩니다.
 
 **Q. 사내 페이지에 끼웠는데 빈 칸이에요.**
-① 퍼블리싱 창이 **🔗 링크 공개** 인지 보세요(보관이면 404) ② 사내 페이지가 외부 iframe 을
+① 퍼블리싱 창에 **[🔗 링크 다시 열기]** 가 보이면 보관 중입니다(404) — 눌러 다시 여세요 ② 사내 페이지가 외부 iframe 을
 막는 설정(CSP `frame-src`)이 있는지 사내 시스템 관리자에게 물어보세요.
